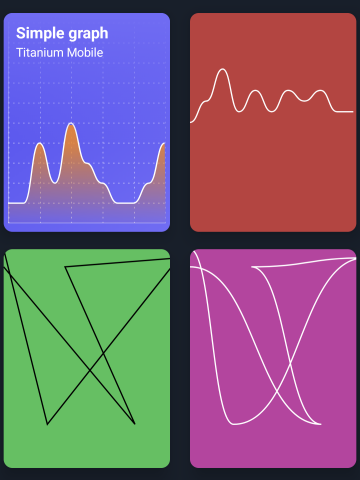
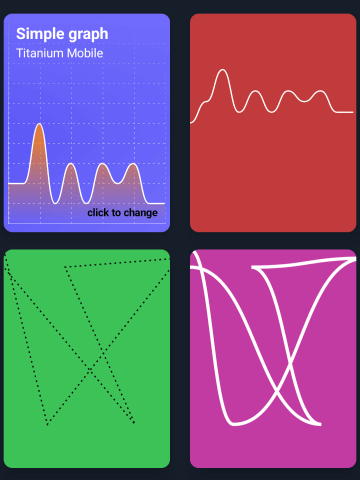
code cleanup

diff --git a/example/app.js b/example/app.js
@@ -131,7 +131,7 @@ win.add(lines.createLine({
 	top: 290,
 	right: 4,
 	backgroundColor: "#c23ba2",
-	lineWidth: 4,
+	lineWidth: 10,
 	lineColor: "#fff",
 	width: 190,
 	height: 250,

diff --git a/android/src/ti/lines/LineView.java b/android/src/ti/lines/LineView.java
@@ -13,7 +13,6 @@ import android.graphics.PorterDuffXfermode;
 import android.graphics.Shader;
 import android.view.View;
 
-import org.appcelerator.kroll.common.Log;
 import org.appcelerator.titanium.TiDimension;
 import org.appcelerator.titanium.proxy.TiViewProxy;
 import org.appcelerator.titanium.util.TiConvert;
@@ -24,44 +23,42 @@ import java.util.HashMap;
 class LineView extends TiUIView {
 
     public PaintView tiPaintView;
-
-    public PointF[] points;
-    public PointF[] pointsCon1;
-    public PointF[] pointsCon2;
-
     public int startAt = 0;
-    Path pathArray = new Path();
-    Path pathFillArray = new Path();
-    Path pathAxis = new Path();
-    Path pathYLines = new Path();
-    int viewWidth;
-    int viewHeight;
-    int startPosition;
-    int maxValue = -1;
-    int yLines = 0;
-    int xLines = 0;
-    int fillColorTop = Color.WHITE;
-    int fillColorBottom = Color.WHITE;
-    boolean showXAis = false;
-    boolean showYAis = false;
-    Paint paintLine = new Paint(Paint.ANTI_ALIAS_FLAG);
-    Paint paintBackground = new Paint(Paint.ANTI_ALIAS_FLAG);
-    Paint paintAxis = new Paint(Paint.ANTI_ALIAS_FLAG);
-    Paint paintYLines = new Paint(Paint.ANTI_ALIAS_FLAG);
-    boolean yScale = false;
-    boolean fillSpace = false;
-    TiDimension dim2;
-    int pathHeight = 0;
-    int strokeType = TiLinesModule.STROKE_NORMAL;
-    int lineType = TiLinesModule.TYPE_CURVED;
+    public int viewWidth;
+    public int startPosition;
+    public int maxValue = -1;
+    public int yLines = 0;
+    public int xLines = 0;
+    public int fillColorTop = Color.WHITE;
+    public int fillColorBottom = Color.WHITE;
+    public boolean showXAis = false;
+    public boolean showYAis = false;
+    public boolean yScale = false;
+    public boolean fillSpace = false;
+    public int strokeType = TiLinesModule.STROKE_NORMAL;
+    public int lineType = TiLinesModule.TYPE_CURVED;
+    private PointF[] points;
+    private PointF[] pointsCon1;
+    private PointF[] pointsCon2;
+    private Path pathArray = new Path();
+    private Path pathFillArray = new Path();
+    private Path pathAxis = new Path();
+    private Path pathXYLines = new Path();
+    private final int viewHeight;
+    private final Paint paintLine = new Paint(Paint.ANTI_ALIAS_FLAG);
+    private final Paint paintBackground = new Paint(Paint.ANTI_ALIAS_FLAG);
+    private final Paint paintAxis = new Paint(Paint.ANTI_ALIAS_FLAG);
+    private final Paint paintYLines = new Paint(Paint.ANTI_ALIAS_FLAG);
+    private final TiDimension dimensionHeight;
+    private int pathHeight = 0;
 
     public LineView(TiViewProxy proxy) {
         super(proxy);
-        TiDimension dim1 = new TiDimension(TiConvert.toString(proxy.getWidth()), TiDimension.TYPE_WIDTH);
-        dim2 = new TiDimension(TiConvert.toString(proxy.getHeight()), TiDimension.TYPE_HEIGHT);
-        viewWidth = dim1.getAsPixels(getOuterView());
-        viewHeight = dim2.getAsPixels(getOuterView());
-        startPosition = (int) (dim2.getAsPixels(getOuterView()) * 0.5);
+        TiDimension dimensionWidth = new TiDimension(TiConvert.toString(proxy.getWidth()), TiDimension.TYPE_WIDTH);
+        dimensionHeight = new TiDimension(TiConvert.toString(proxy.getHeight()), TiDimension.TYPE_HEIGHT);
+        viewWidth = dimensionWidth.getAsPixels(getOuterView());
+        viewHeight = dimensionHeight.getAsPixels(getOuterView());
+        startPosition = (int) (dimensionHeight.getAsPixels(getOuterView()) * 0.5);
         setNativeView(tiPaintView = new PaintView(proxy.getActivity()));
     }
 
@@ -100,11 +97,11 @@ class LineView extends TiUIView {
         }
 
         if (startAt == TiLinesModule.START_CENTER) {
-            startPosition = (int) (dim2.getAsPixels(getOuterView()) * 0.5);
+            startPosition = (int) (dimensionHeight.getAsPixels(getOuterView()) * 0.5);
             localMax /= 0.5;
             maxValue /= 0.5;
         } else if (startAt == TiLinesModule.START_BOTTOM) {
-            startPosition = dim2.getAsPixels(getOuterView());
+            startPosition = dimensionHeight.getAsPixels(getOuterView());
         }
 
         // draw below line - setup shader
@@ -126,7 +123,7 @@ class LineView extends TiUIView {
         for (Object point : pointObject) {
             if (point instanceof Number) {
                 // just value - draw a graph
-                Float hPoint = TiConvert.toFloat(point);
+                float hPoint = TiConvert.toFloat(point);
 
                 if (yScale) {
                     hPoint = (viewHeight / maxValue) * hPoint;
@@ -135,11 +132,11 @@ class LineView extends TiUIView {
                 baseX += stepX;
             } else {
                 // normal lines with coordinates
-                HashMap pointValues = (HashMap) point;
+                HashMap<String, Object> pointValues = (HashMap<String, Object>) point;
                 TiDimension d1 = new TiDimension(TiConvert.toString(pointValues.get("x")), TiDimension.TYPE_WIDTH);
                 TiDimension d2 = new TiDimension(TiConvert.toString(pointValues.get("y")), TiDimension.TYPE_HEIGHT);
-                Float x = TiConvert.toFloat(d1.getAsPixels(getOuterView()));
-                Float y = TiConvert.toFloat(d2.getAsPixels(getOuterView()));
+                float x = TiConvert.toFloat(d1.getAsPixels(getOuterView()));
+                float y = TiConvert.toFloat(d2.getAsPixels(getOuterView()));
 
                 points[pos].set(x, y);
             }
@@ -166,9 +163,8 @@ class LineView extends TiUIView {
         }
         pathFillArray.lineTo(viewWidth, viewHeight);
 
-        if (strokeType == TiLinesModule.STROKE_NORMAL) {
-
-        } else if (strokeType == TiLinesModule.STROKE_DASHED) {
+        // stroke type
+        if (strokeType == TiLinesModule.STROKE_DASHED) {
             paintLine.setPathEffect(new DashPathEffect(new float[]{5, 10}, 0));
         }
 
@@ -196,8 +192,8 @@ class LineView extends TiUIView {
             int yPos = viewHeight - steps;
 
             while (yPos > 0) {
-                pathYLines.moveTo(0, yPos);
-                pathYLines.lineTo(viewWidth, yPos);
+                pathXYLines.moveTo(0, yPos);
+                pathXYLines.lineTo(viewWidth, yPos);
                 yPos -= steps;
             }
         }
@@ -207,8 +203,8 @@ class LineView extends TiUIView {
             int xPos = viewWidth;
 
             while (xPos > 0) {
-                pathYLines.moveTo(xPos, 0);
-                pathYLines.lineTo(xPos, viewHeight);
+                pathXYLines.moveTo(xPos, 0);
+                pathXYLines.lineTo(xPos, viewHeight);
                 xPos -= steps;
             }
         }
@@ -222,9 +218,7 @@ class LineView extends TiUIView {
         pathArray = new Path();
         pathFillArray = new Path();
         pathAxis = new Path();
-        pathYLines = new Path();
-
-        //tiPaintView.clear();
+        pathXYLines = new Path();
     }
 
     public class PaintView extends View {
@@ -266,7 +260,7 @@ class LineView extends TiUIView {
                 clearAll = false;
             } else {
                 canvas.drawPath(pathAxis, paintAxis);
-                canvas.drawPath(pathYLines, paintYLines);
+                canvas.drawPath(pathXYLines, paintYLines);
 
                 if (fillSpace) {
                     canvas.drawPath(pathFillArray, paintBackground);

diff --git a/android/src/ti/lines/LineProxy.java b/android/src/ti/lines/LineProxy.java
@@ -23,21 +23,21 @@ import org.appcelerator.titanium.view.TiUIView;
 public class LineProxy extends TiViewProxy {
     static final int MSG_POINTS = KrollProxy.MSG_LAST_ID + 101;
     private static final String LCAT = "LineProxy";
-    LineView view;
-    Object[] points;
-    int lineColor = Color.BLACK;
-    int lineWidth = 1;
-    int startAt = 0;
-    int maxValue = -1;
-    int strokeType = TiLinesModule.STROKE_NORMAL;
-    int xLines = 0;
-    int yLines = 0;
-    int fillColorTop = Color.WHITE;
-    int fillColorBottom = Color.WHITE;
-    int lineType = TiLinesModule.TYPE_CURVED;
-    boolean showXAxis = false;
-    boolean showYAxis = false;
-    boolean fillSpace = false;
+    private LineView view;
+    private Object[] points;
+    private int lineColor = Color.BLACK;
+    private int lineWidth = 1;
+    private int startAt = 0;
+    private int maxValue = -1;
+    private int strokeType = TiLinesModule.STROKE_NORMAL;
+    private int xLines = 0;
+    private int yLines = 0;
+    private int fillColorTop = Color.WHITE;
+    private int fillColorBottom = Color.WHITE;
+    private int lineType = TiLinesModule.TYPE_CURVED;
+    private boolean showXAxis = false;
+    private boolean showYAxis = false;
+    private boolean fillSpace = false;
 
     // Constructor
     public LineProxy() {
@@ -114,10 +114,10 @@ public class LineProxy extends TiViewProxy {
             strokeType = TiConvert.toInt(options.get("strokeType"));
         }
         if (options.containsKey("fillColorTop")) {
-            fillColorTop = TiConvert.toColor(options.getString("fillColorTop"));
+            fillColorTop = TiConvert.toColor(options.getString("fillColorTop"), TiApplication.getAppCurrentActivity());
         }
         if (options.containsKey("fillColorBottom")) {
-            fillColorBottom = TiConvert.toColor(options.getString("fillColorBottom"));
+            fillColorBottom = TiConvert.toColor(options.getString("fillColorBottom"), TiApplication.getAppCurrentActivity());
         }
         updateView();
     }
@@ -153,13 +153,13 @@ public class LineProxy extends TiViewProxy {
 
     @Kroll.setProperty
     private void fillColorTop(String obj) {
-        fillColorTop = TiConvert.toColor(obj);
+        fillColorTop = TiConvert.toColor(obj, TiApplication.getAppCurrentActivity());
         if (view != null) view.fillColorTop = fillColorTop;
     }
 
     @Kroll.setProperty
     private void setFillColorBottom(String obj) {
-        fillColorTop = TiConvert.toColor(obj);
+        fillColorTop = TiConvert.toColor(obj, TiApplication.getAppCurrentActivity());
         if (view != null) view.fillColorBottom = fillColorBottom;
     }
 
